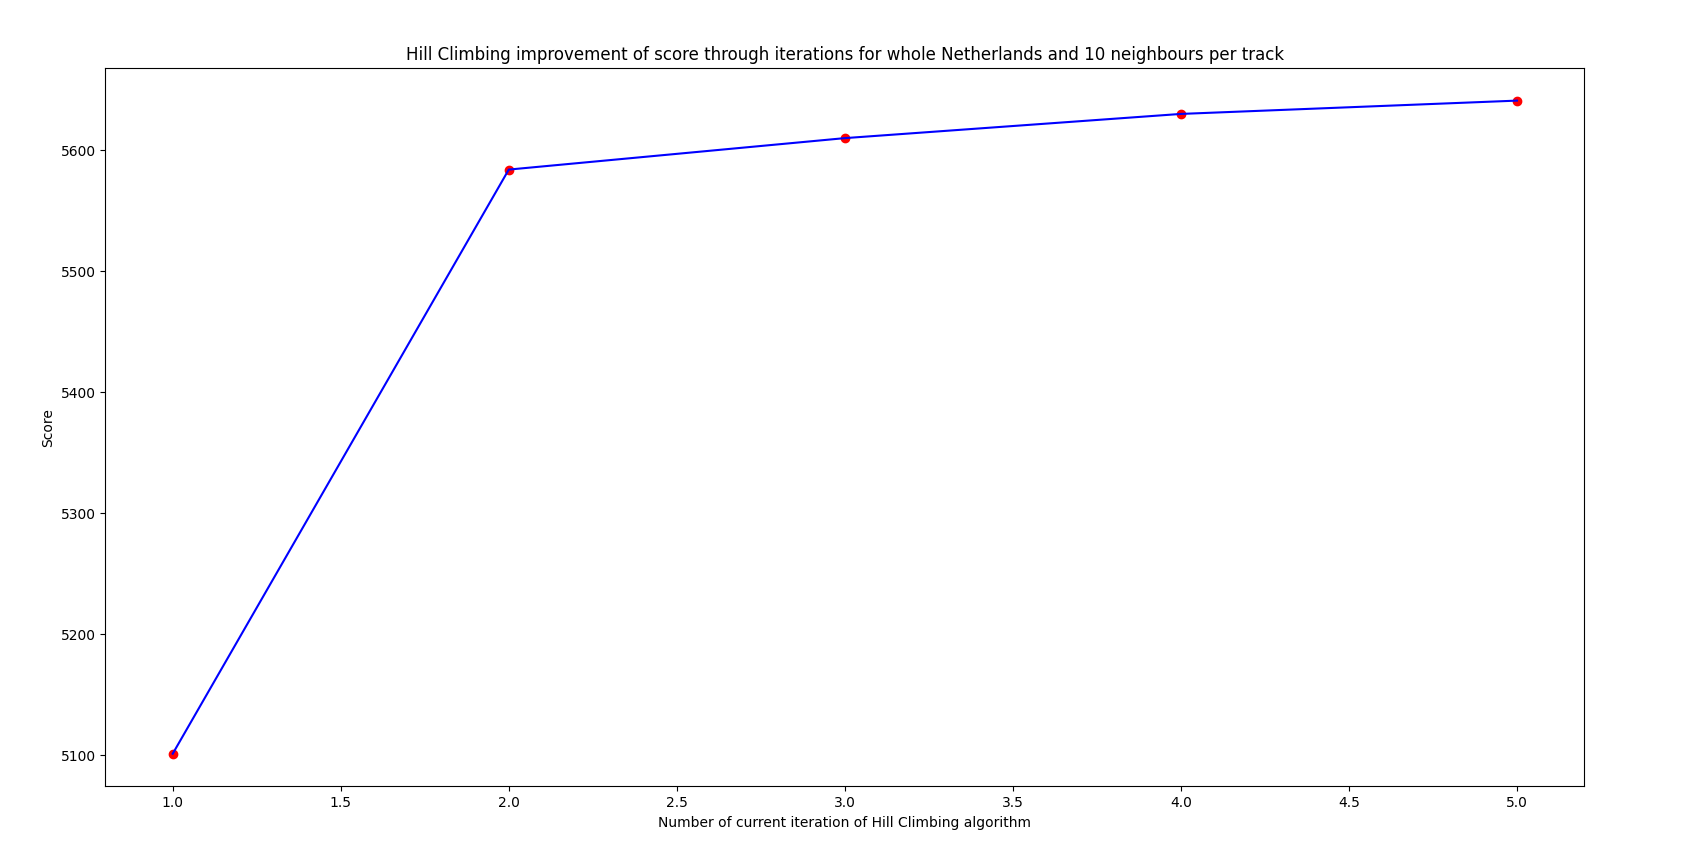
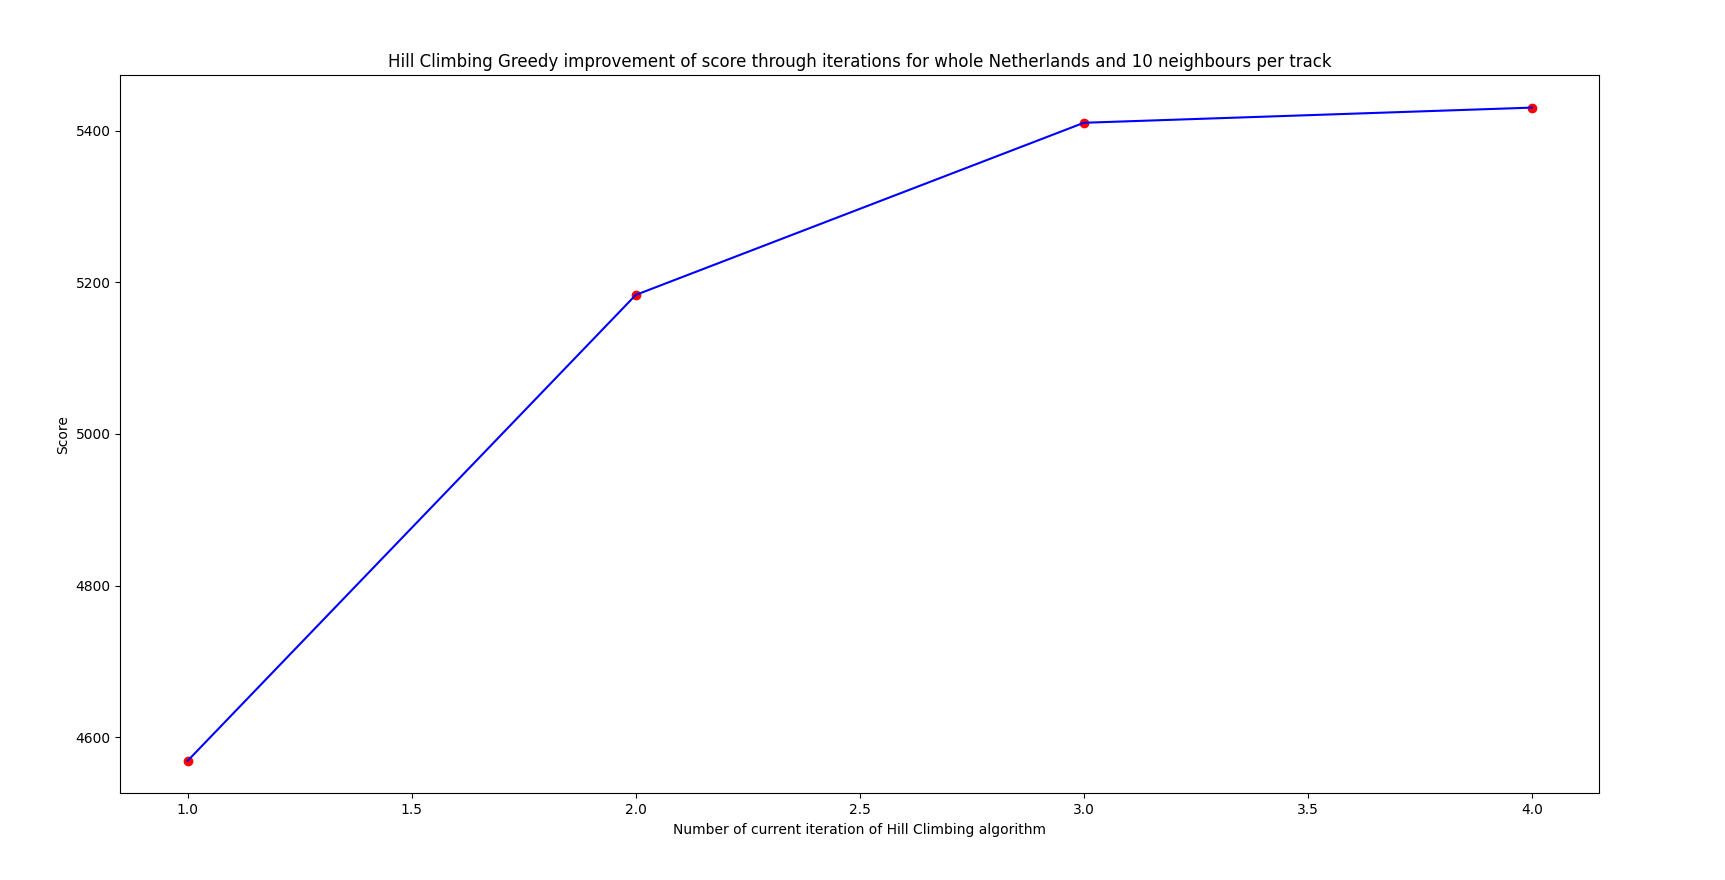
changes text for graph

diff --git a/code/visualization/plot_hill_climbing.py b/code/visualization/plot_hill_climbing.py
@@ -41,5 +41,8 @@ def Plot_hill_climbing(area: Rail_NL, amount_trajects: int, amount_stations: int
     plt.plot(x_list, score_list, color="blue")
     plt.xlabel('Number of current iteration of Hill Climbing algorithm')
     plt.ylabel('Score')
-    plt.title('Hill Climbing improvement of score through iterations for whole Netherlands and 10 neighbours per track')
+    if not greedy and not random_optim:
+        plt.title('Hill Climbing improvement of score through iterations for whole Netherlands and 10 neighbours per track')
+    if greedy:
+        plt.title('Hill Climbing Greedy improvement of score through iterations for whole Netherlands and 10 neighbours per track')
     plt.show()
